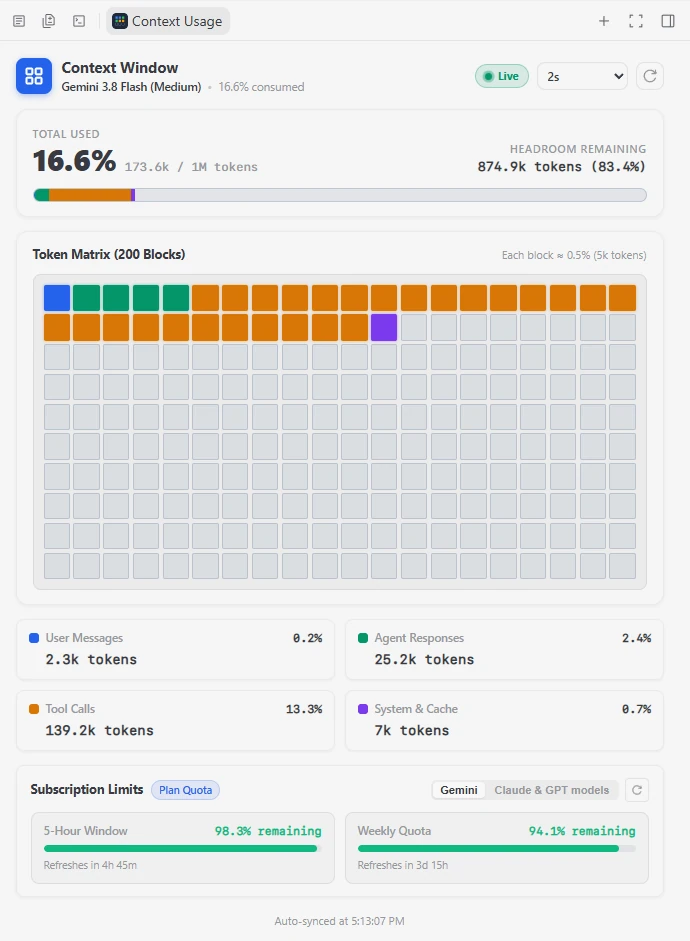
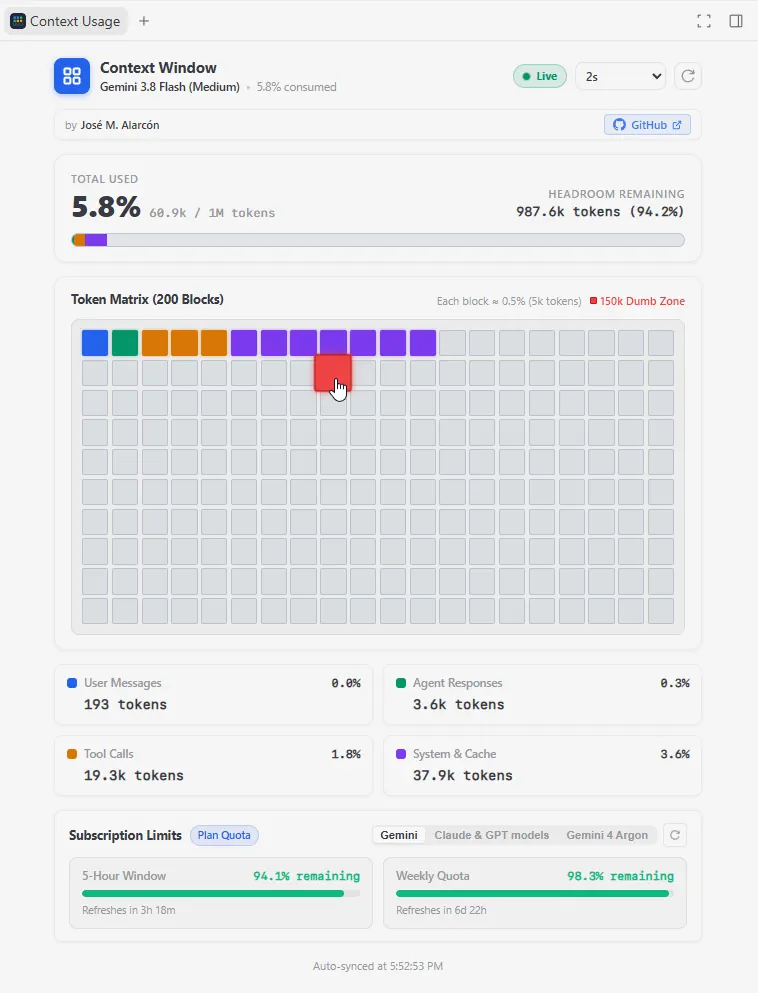
v1.2.0 - Add a "Dumb zone" warning indicator and explanations

diff --git a/src/sidecars/panel/index.html b/src/sidecars/panel/index.html
@@ -301,8 +301,29 @@
     }
 
     .card-hint {
+      display: flex;
+      align-items: center;
+      gap: 8px;
       font-size: 11px;
       color: var(--muted-foreground, #64748b);
+    }
+
+    .dumb-zone-legend {
+      display: inline-flex;
+      align-items: center;
+      gap: 4px;
+      color: #ef4444;
+      font-weight: 600;
+      cursor: help;
+    }
+
+    .dumb-zone-dot {
+      width: 7px;
+      height: 7px;
+      background: #ef4444;
+      border: 1px solid #b91c1c;
+      border-radius: 1.5px;
+      display: inline-block;
     }
 
     /* Hero Card */
@@ -435,6 +456,12 @@
     .cell.free {
       background: var(--c-free) !important;
       border: 1px solid var(--c-free-border);
+    }
+
+    .cell.dumb-zone {
+      background: #ef4444 !important;
+      border: 1px solid #b91c1c !important;
+      box-shadow: 0 0 5px rgba(239, 68, 68, 0.7);
     }
 
     /* Breakdown Grid Cards */
@@ -757,7 +784,12 @@
     <section class="card matrix-card">
       <div class="card-header">
         <div class="card-title">Token Matrix (200 Blocks)</div>
-        <div id="matrix-info" class="card-hint">Each block ≈ 0.5% (5k tokens)</div>
+        <div id="matrix-info" class="card-hint">
+          <span>Each block ≈ 0.5% (5k tokens)</span>
+          <span class="dumb-zone-legend" title="Dumb Zone threshold (~150k tokens): Beyond this point, code quality and model reasoning degrade sharply for programming tasks.">
+            <span class="dumb-zone-dot"></span>150k Dumb Zone
+          </span>
+        </div>
       </div>
 
       <div id="token-matrix" class="token-matrix" aria-label="Visual token blocks">
@@ -916,6 +948,28 @@
 
       while (cells.length < MATRIX_TOTAL_BLOCKS) {
         cells.push({ cls: 'free', title: `Free space: ${formatTokens(metrics.categories?.free?.tokens || 0)} tokens` });
+      }
+
+      // Update matrix header hint dynamically with capacity-aware block size
+      const approxTokensPerBlock = cap > 1_500_000 ? '10k' : '5k';
+      const matrixInfoElem = $('matrix-info');
+      if (matrixInfoElem) {
+        matrixInfoElem.innerHTML = `<span>Each block ≈ 0.5% (${approxTokensPerBlock} tokens)</span>` +
+          `<span class="dumb-zone-legend" title="Dumb Zone threshold (~150k tokens): Beyond this point, code quality and model reasoning degrade sharply for programming tasks."><span class="dumb-zone-dot"></span>150k Dumb Zone</span>`;
+      }
+
+      // Mark the start of the "Dumb Zone" threshold (~150k tokens)
+      const DUMB_ZONE_TOKENS = 150_000;
+      const dumbZoneIndex = Math.min(MATRIX_TOTAL_BLOCKS - 1, Math.floor((DUMB_ZONE_TOKENS / cap) * MATRIX_TOTAL_BLOCKS));
+
+      if (dumbZoneIndex >= 0 && dumbZoneIndex < MATRIX_TOTAL_BLOCKS) {
+        const totalUsedTok = metrics.totalUsed || 0;
+        const isExceeded = totalUsedTok >= DUMB_ZONE_TOKENS;
+        const statusNote = isExceeded ? ' [Exceeded]' : ' [Safe]';
+        cells[dumbZoneIndex] = {
+          cls: 'dumb-zone',
+          title: `Dumb Zone threshold (~150k tokens)${statusNote}: Model reasoning and code quality degrade sharply beyond this point for programming.`,
+        };
       }
 
       let html = '';

diff --git a/README.md b/README.md
@@ -18,6 +18,7 @@ The extension shows:
 - The remaining free headroom tokens.
 - A visual progress bar with color segments for each data category.
 - A visual matrix with 200 colored blocks (each block represents 0.5% of the context window).
+- A red square marker in the matrix that pinpoints the start of the **"dumb zone"** (~150k tokens), where model reasoning and code quality degrade sharply for programming tasks. Hover over it to view status details.
 - A breakdown of tokens by category:
   - User messages
   - Agent responses
@@ -124,9 +125,33 @@ The extension uses the following color codes:
 | **Green** (`#059669`) | Agent Responses | Tokens from agent thoughts and messages |
 | **Amber** (`#d97706`) | Tool Calls | Tokens from tool execution calls and tool results |
 | **Purple** (`#7c3aed`) | System & Cache | Tokens from system prompts, rules, and cache |
+| **Red** (`#ef4444`) | Dumb Zone Limit | Practical review checkpoint for context degradation (~150k tokens) |
 | **Light Slate** | Free Space | Available unused token capacity |
 
-## 7. Troubleshooting
+## 7. Understanding the "Dumb Zone"
+
+Modern Large Language Models (LLMs) support context windows of 1 to 2 million tokens. However, empirical studies show that code quality and complex reasoning degrade long before hitting physical capacity. In software development, this attention degradation is commonly called **context rot** or the **"dumb zone"**.
+
+### Why Context Rot Occurs
+
+The degradation does not come from raw token capacity limits, but from attention dynamics and cognitive noise:
+
+- **Information Interference**: Previous failed attempts, discarded solutions, raw terminal logs, and conversational history compete directly with your current instructions.
+- **Lost in the Middle & Imperfect Retrieval**: Transformer attention concentrates at the start (system prompt) and end of the prompt. Information stored in the middle of long sessions is frequently overlooked or forgotten.
+- **Cross-File Relational Complexity**: While models can locate isolated facts in large contexts, their ability to reason across interconnected files and multi-step architectures drops significantly ([ACL Anthology, 2025](https://aclanthology.org/)).
+- **Empirical Degradation**: Benchmarks such as [Context Rot Quantified (Boolean, 2026)](https://www.boolean.ai/blog/context-rot-quantified), [LOCA-bench](https://loca-bench.github.io/), and Google DeepMind's [Gemini 4 Argon GraphWalks](https://deepmind.google/models/model-cards/gemini-4-argon/) confirm performance drops between 15% and 27% across frontier models when context exceeds 128k–256k tokens.
+
+### Why 150k Tokens Is Marked (and How to Use It)
+
+The red block at **150,000 tokens** provides a **practical review checkpoint**, not an absolute limit:
+
+- **Not an absolute cliff**: Exceeding 150k tokens does not automatically break the model. A clean 200k context containing coherent architecture specs and necessary files often performs better than a noisy 90k context filled with compiler stack traces and conflicting directions.
+- **Do not compact too early**: Research by [LangWatch (2026)](https://langwatch.ai/research/finding-the-optimal-context-window) and [Microsoft Research (CompactionBench, 2026)](https://www.microsoft.com/en-us/research/publication/benchmarking-long-horizon-agent-context-compaction-with-compactionbench/) demonstrates that aggressive resetting or compacting (`/compact`) can harm productivity. Critical decisions and project nuances are easily lost during summary compression, with developer corrections jumping up to 40% immediately following compaction.
+
+>[!IMPORTANT
+>**Behavioral Signal**: Treat the red square as an observation cue. Continue working normally, but watch for symptoms of degradation (e.g., repeating discarded bug fixes, forgetting explicit architectural constraints, or editing unintended files). When symptoms appear, start a fresh session with a clear, concise handoff spec.
+
+## 8. Troubleshooting
 
 ### Problem: The panel is blank or shows an error
 

diff --git a/.agents/docs/ui-dashboard.md b/.agents/docs/ui-dashboard.md
@@ -20,8 +20,9 @@ The dashboard is structured into four primary sections:
 
 3. **Memory Heatmap Matrix**:
    - 200-cell responsive CSS Grid (`repeat(20, 1fr)`).
-   - Each cell represents **0.5%** of the context window (~5,000 tokens on 1M models).
+   - Each cell represents **0.5%** of the context window (~5,000 tokens on 1M models, ~10,000 tokens on 2M models).
    - Hover magnification (`transform: scale(1.45)`) with native tooltips indicating exact token counts.
+   - **"Dumb Zone" Threshold Marker**: Distinctive red square indicator at ~150k tokens (block 28 on 1M models, block 14 on 2M models) marking where LLM code quality and reasoning degrade sharply due to context rot and attention degradation ("Lost in the Middle"). Displays an informative status tooltip on mouse hover.
 
 4. **Category Breakdown Cards**:
    - 4 cards: User Messages, Agent Responses, Tool Calls, System & Cache.
@@ -46,6 +47,7 @@ Colors are defined to provide high contrast on both light and dark themes:
 | **Agent** | `--c-agent` | `#059669` | Model thoughts & output |
 | **Tool** | `--c-tool` | `#d97706` | Tool calls & execution |
 | **System** | `--c-system` | `#7c3aed` | System instructions & cache |
+| **Dumb Zone** | `.cell.dumb-zone` | `#ef4444` | Start of reasoning & code degradation (~150k tokens) |
 | **Free** | `--c-free` | `rgba(148, 163, 184, 0.2)` | Unused headroom |
 
 ## 3. Frontend Polling & Lifecycles
